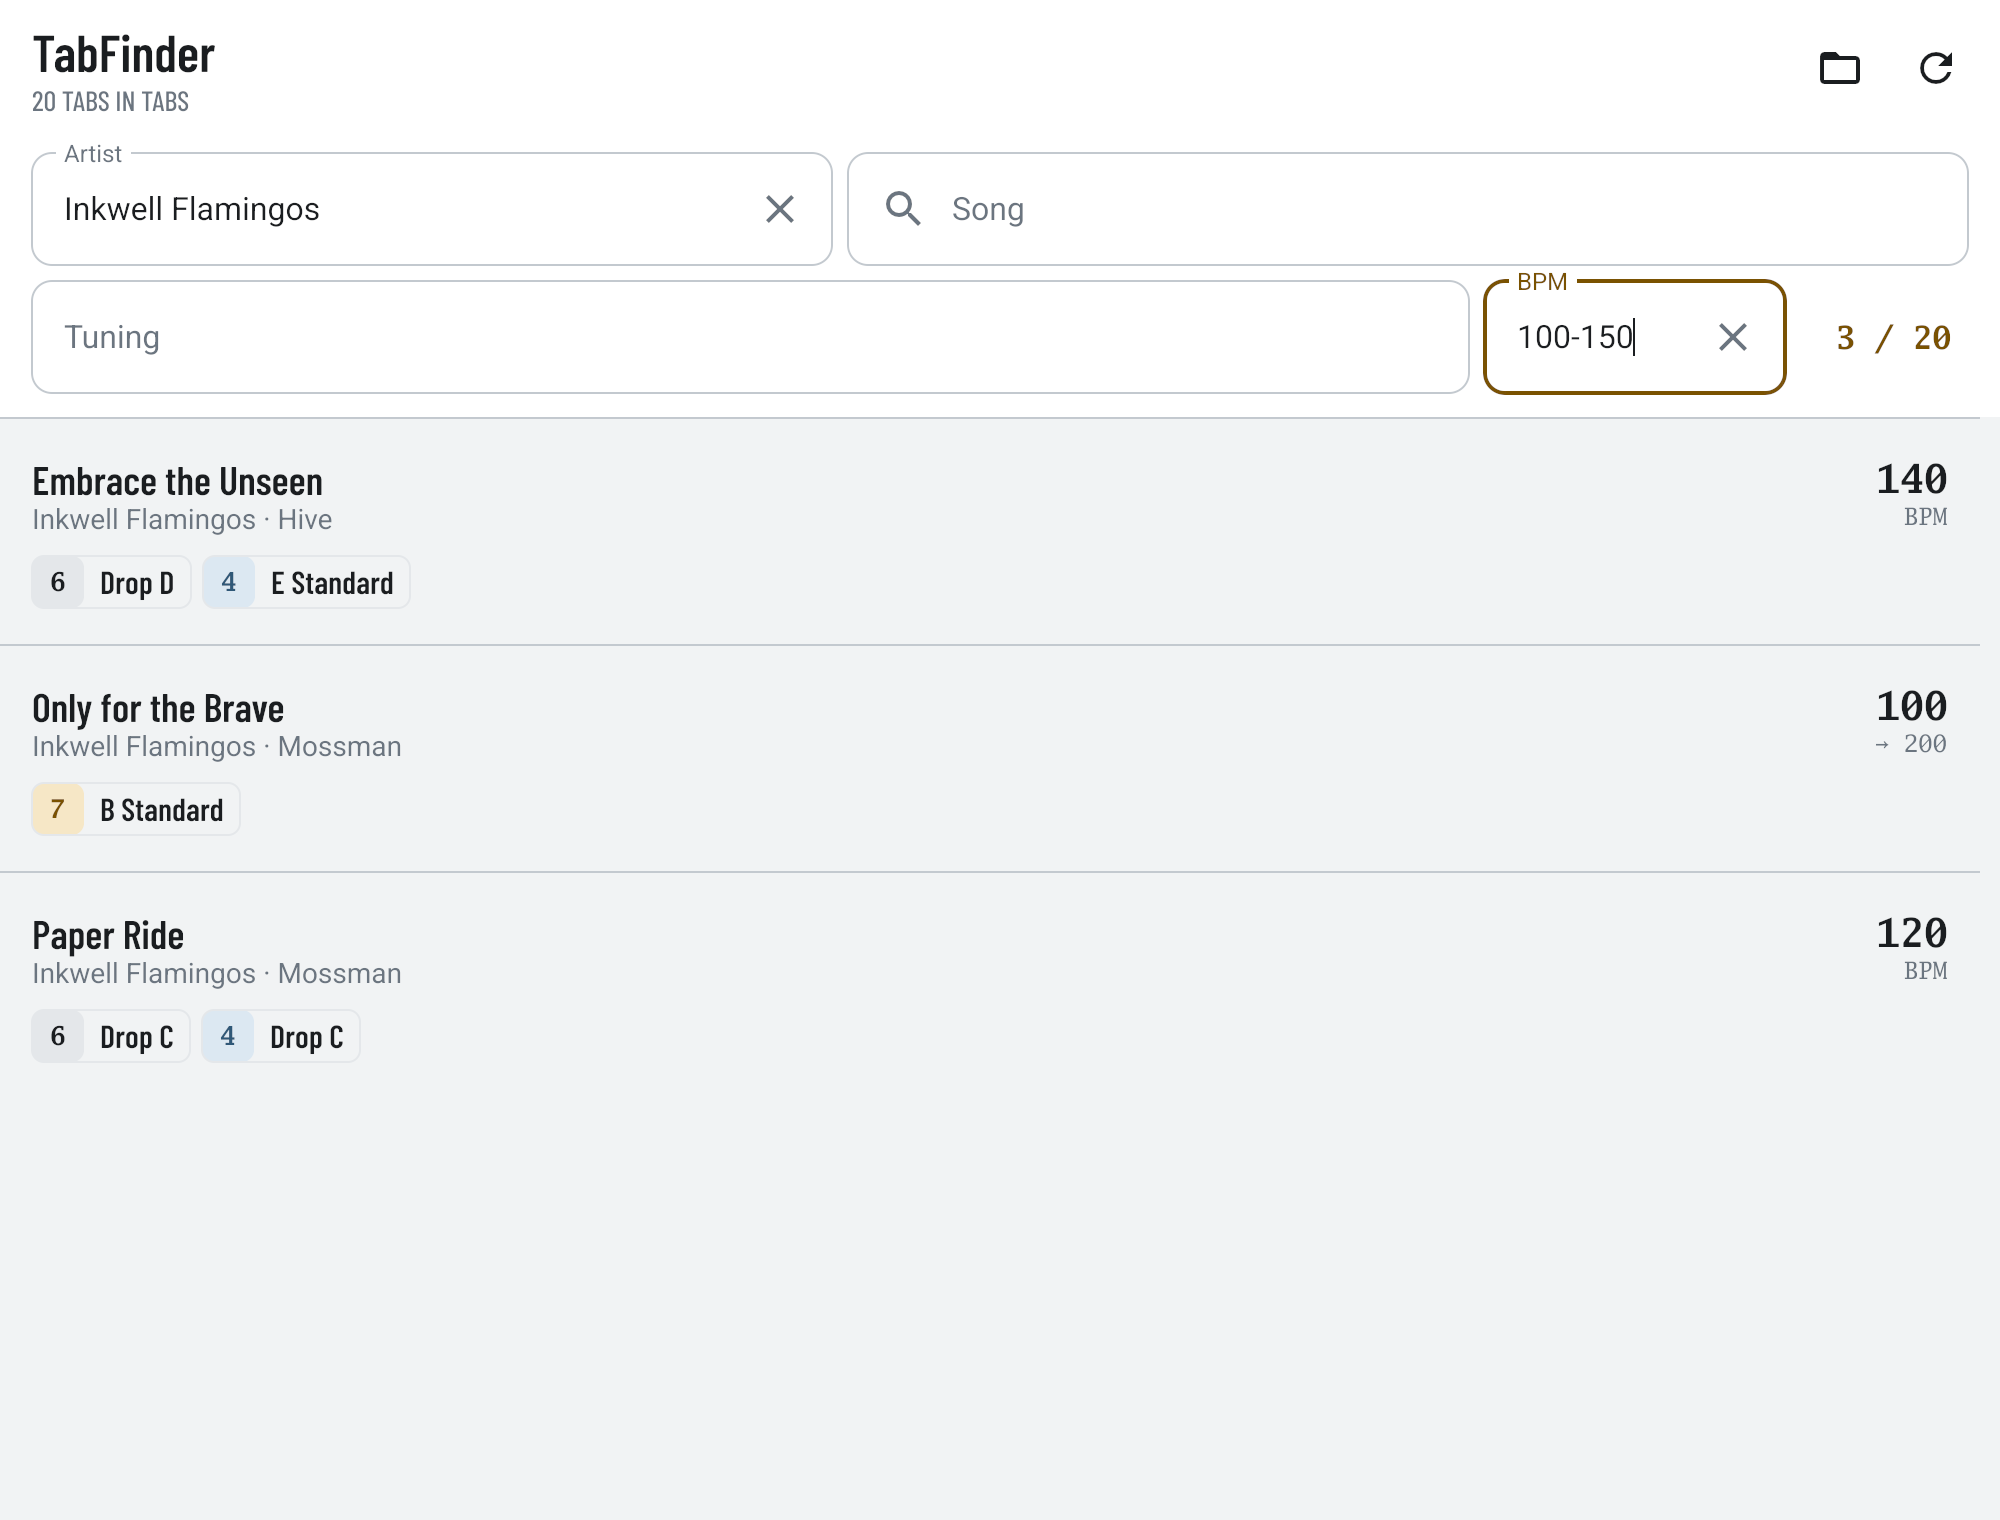
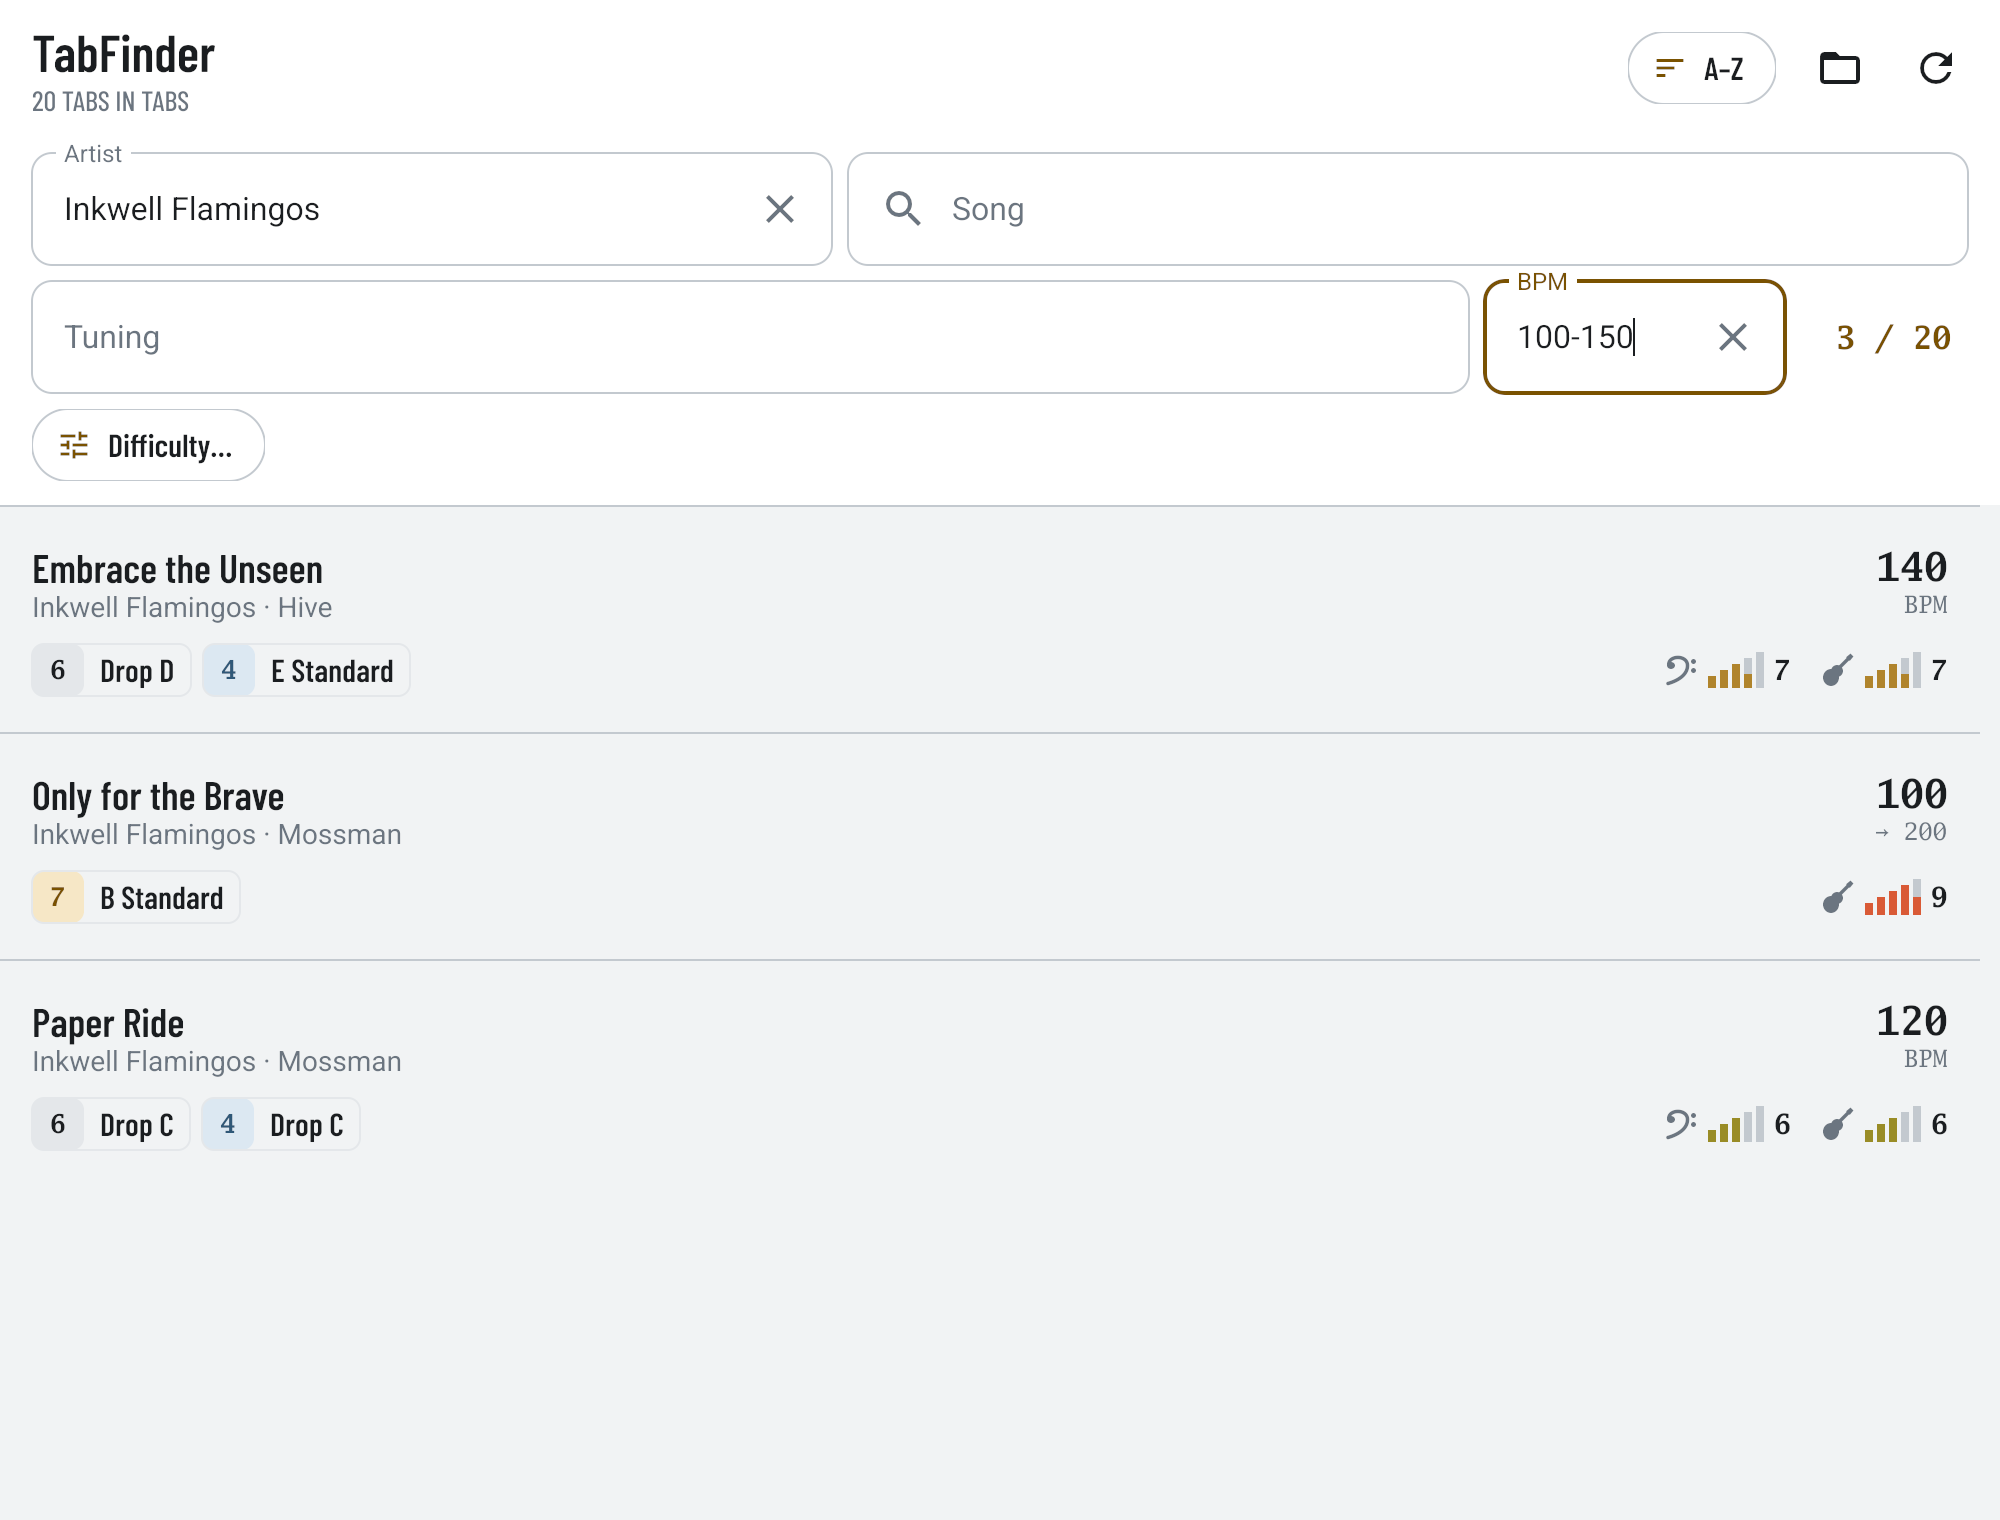
README, CHANGELOG: the desktop app's difficulty; showcase songs play riffs

diff --git a/cmd/tabfinder/readme_shots_test.go b/cmd/tabfinder/readme_shots_test.go
@@ -4,10 +4,13 @@ import (
 	"image"
 	"os"
 	"path/filepath"
+	"slices"
+	"strings"
 	"testing"
 
 	"gioui.org/io/key"
 
+	"tabfinder/internal/difficulty"
 	"tabfinder/internal/finder"
 	"tabfinder/internal/tabfiles"
 	"tabfinder/internal/testlib"
@@ -38,32 +41,41 @@ func showcaseLibrary() map[string][]byte {
 		tempo                int
 		changes              map[int]int // bar -> BPM
 		tracks               []tabfiles.GPTrack
+		pace, variety        int // notes per quarter and distinct bars of the riffs; 0: a few chords
 	}
 	songs := []song{
-		{"Amber Marsh", "Tide of Lanterns", "Where Rivers Seem to Rest", 120, nil, []tabfiles.GPTrack{gtr("Guitar", std), bass, drums}},
-		{"Amber Marsh", "Tide of Lanterns", "Copper Giant", 160, nil, []tabfiles.GPTrack{gtr("Rhythm", dropD), gtr("Lead", dropD)}},
-		{"Amber Marsh", "Tide of Lanterns", "Raise Your Lanterns", 110, nil, []tabfiles.GPTrack{gtr("Guitar", dStd)}},
-		{"Inkwell Flamingos", "Mossman", "Only for the Brave", 100, map[int]int{4: 200}, []tabfiles.GPTrack{gtr("Guitar 7", b7)}},
-		{"Inkwell Flamingos", "Mossman", "Paper Ride", 120, nil, []tabfiles.GPTrack{gtr("Guitar", dropC), bassC}},
-		{"Inkwell Flamingos", "Hive", "Embrace the Unseen", 140, nil, []tabfiles.GPTrack{gtr("Guitar", dropD), bass}},
-		{"Soilbed Quartet", "Glass Orchard", "Brass Kettle", 190, map[int]int{5: 145}, []tabfiles.GPTrack{gtr("Guitar", dropC), bassC, drums}},
-		{"Soilbed Quartet", "Glass Orchard", "Rust Parade", 190, nil, []tabfiles.GPTrack{gtr("Guitar", dropC)}},
-		{"Neon Harbor", "Glass Tides", "Salt Lamp", 132, map[int]int{3: 96, 6: 132}, []tabfiles.GPTrack{gtr("Lead Guitar", std)}},
-		{"Neon Harbor", "Glass Tides", "Harbor Lights at Noon", 98, nil, []tabfiles.GPTrack{gtr("Guitar", eb), bass}},
-		{"Quiet Engines", "Slow Orbit", "Tin Moon", 90, map[int]int{2: 100}, []tabfiles.GPTrack{gtr("Guitar", dropD), bass, drums}},
-		{"Quiet Engines", "Slow Orbit", "Ballast", 76, nil, []tabfiles.GPTrack{gtr("Acoustic", dadgad)}},
-		{"Paper Satellites", "Cold Start", "Cold Start", 150, nil, []tabfiles.GPTrack{gtr("Guitar", dStd), drums}},
-		{"Paper Satellites", "Cold Start", "Signal Fade", 170, nil, []tabfiles.GPTrack{gtr("Guitar", std)}},
-		{"Moss Cathedral", "Hollow Choir", "Lantern", 84, nil, []tabfiles.GPTrack{gtr("Slide", openG)}},
-		{"Moss Cathedral", "Hollow Choir", "Under Glass", 66, nil, []tabfiles.GPTrack{gtr("Guitar", dropB), bass}},
-		{"Seventh Floor", "Static Garden", "Paper Weather", 140, nil, []tabfiles.GPTrack{gtr("Rhythm 7", b7), gtr("Lead", std)}},
-		{"Seventh Floor", "Static Garden", "Cut Short", 125, nil, []tabfiles.GPTrack{gtr("Guitar 7", b7)}},
-		{"Die Äther", "Polka ist anders", "Ruf nach Sonne", 150, nil, []tabfiles.GPTrack{gtr("Gitarre", std), bass, drums}},
-		{"Orbit Club", "Night Shift", "Night Shift", 128, nil, []tabfiles.GPTrack{gtr("Guitar", std), bass}},
+		{"Amber Marsh", "Tide of Lanterns", "Where Rivers Seem to Rest", 120, nil, []tabfiles.GPTrack{gtr("Guitar", std), bass, drums}, 2, 4},
+		{"Amber Marsh", "Tide of Lanterns", "Copper Giant", 160, nil, []tabfiles.GPTrack{gtr("Rhythm", dropD), gtr("Lead", dropD)}, 4, 6},
+		{"Amber Marsh", "Tide of Lanterns", "Raise Your Lanterns", 110, nil, []tabfiles.GPTrack{gtr("Guitar", dStd)}, 1, 2},
+		{"Inkwell Flamingos", "Mossman", "Only for the Brave", 100, map[int]int{4: 200}, []tabfiles.GPTrack{gtr("Guitar 7", b7)}, 2, 6},
+		{"Inkwell Flamingos", "Mossman", "Paper Ride", 120, nil, []tabfiles.GPTrack{gtr("Guitar", dropC), bassC}, 2, 2},
+		{"Inkwell Flamingos", "Hive", "Embrace the Unseen", 140, nil, []tabfiles.GPTrack{gtr("Guitar", dropD), bass}, 2, 3},
+		{"Soilbed Quartet", "Glass Orchard", "Brass Kettle", 190, map[int]int{5: 145}, []tabfiles.GPTrack{gtr("Guitar", dropC), bassC, drums}, 4, 8},
+		{"Soilbed Quartet", "Glass Orchard", "Rust Parade", 190, nil, []tabfiles.GPTrack{gtr("Guitar", dropC)}, 4, 4},
+		{"Neon Harbor", "Glass Tides", "Salt Lamp", 132, map[int]int{3: 96, 6: 132}, []tabfiles.GPTrack{gtr("Lead Guitar", std)}, 4, 8},
+		{"Neon Harbor", "Glass Tides", "Harbor Lights at Noon", 98, nil, []tabfiles.GPTrack{gtr("Guitar", eb), bass}, 1, 3},
+		{"Quiet Engines", "Slow Orbit", "Tin Moon", 90, map[int]int{2: 100}, []tabfiles.GPTrack{gtr("Guitar", dropD), bass, drums}, 2, 2},
+		{"Quiet Engines", "Slow Orbit", "Ballast", 76, nil, []tabfiles.GPTrack{gtr("Acoustic", dadgad)}, 1, 1},
+		{"Paper Satellites", "Cold Start", "Cold Start", 150, nil, []tabfiles.GPTrack{gtr("Guitar", dStd), drums}, 2, 4},
+		{"Paper Satellites", "Cold Start", "Signal Fade", 170, nil, []tabfiles.GPTrack{gtr("Guitar", std)}, 4, 3},
+		{"Moss Cathedral", "Hollow Choir", "Lantern", 84, nil, []tabfiles.GPTrack{gtr("Slide", openG)}, 1, 2},
+		{"Moss Cathedral", "Hollow Choir", "Under Glass", 66, nil, []tabfiles.GPTrack{gtr("Guitar", dropB), bass}, 1, 2},
+		{"Seventh Floor", "Static Garden", "Paper Weather", 140, nil, []tabfiles.GPTrack{gtr("Rhythm 7", b7), gtr("Lead", std)}, 4, 6},
+		{"Seventh Floor", "Static Garden", "Cut Short", 125, nil, []tabfiles.GPTrack{gtr("Guitar 7", b7)}, 2, 5},
+		{"Die Äther", "Polka ist anders", "Ruf nach Sonne", 150, nil, []tabfiles.GPTrack{gtr("Gitarre", std), bass, drums}, 2, 3},
+		{"Orbit Club", "Night Shift", "Night Shift", 128, nil, []tabfiles.GPTrack{gtr("Guitar", std), bass}, 2, 2},
 	}
 	files := map[string][]byte{}
 	for _, s := range songs {
 		bars := make([]tabfiles.GPBar, 8)
+		if s.pace > 0 {
+			bars = make([]tabfiles.GPBar, 48)
+			for i := range bars {
+				for _, t := range s.tracks {
+					bars[i].Beats = append(bars[i].Beats, riff(t, s.pace, s.variety, i))
+				}
+			}
+		}
 		for bar, bpm := range s.changes {
 			bars[bar].Tempo = bpm
 		}
@@ -72,6 +84,33 @@ func showcaseLibrary() map[string][]byte {
 		})
 	}
 	return files
+}
+
+// riff is a bar of track t: pace notes per quarter, drums a beat, a lead high up, others on
+// their lowest strings; bars repeat after variety of them.
+func riff(t tabfiles.GPTrack, pace, variety, bar int) []tabfiles.GPBeat {
+	dur := map[int]int{1: 0, 2: 1, 4: 2}[pace]
+	v := bar % max(variety, 1)
+	low := len(t.Strings) // the lowest string
+	var out []tabfiles.GPBeat
+	for i := range 4 * pace {
+		var notes []tabfiles.GPNote
+		switch {
+		case t.Drums:
+			notes = []tabfiles.GPNote{{String: 1, Fret: 42}}
+			if i%(2*pace) == 0 {
+				notes = append(notes, tabfiles.GPNote{String: 2, Fret: 36})
+			} else if i%(2*pace) == pace {
+				notes = append(notes, tabfiles.GPNote{String: 2, Fret: 38})
+			}
+		case strings.Contains(t.Name, "Lead"):
+			notes = []tabfiles.GPNote{{String: 1 + (i+v)%2, Fret: 12 + (3*i+2*v)%7}}
+		default:
+			notes = []tabfiles.GPNote{{String: low - (i/2+v)%2, Fret: (i*(v+1) + v) % 6}}
+		}
+		out = append(out, tabfiles.GPBeat{Dur: dur, Notes: notes})
+	}
+	return out
 }
 
 // TestReadmeScreenshots renders the desktop screenshots of the README into $TABFINDER_README_SHOTS
@@ -107,6 +146,16 @@ func TestReadmeScreenshots(t *testing.T) {
 			h.shot("desktop-list")
 			h.click(tuningAt.X, tuningAt.Y)
 			h.shot("desktop-tuning")
+			h.press(key.NameEscape)
+			h.openLevels()
+			r := h.sliderRect(difficulty.Rhythm)
+			h.drag(thumbAt(r, 1), thumbAt(r, 5))
+			h.drag(thumbAt(r, 10), thumbAt(r, 7))
+			h.shot("desktop-difficulty")
+			h.clickRect(h.buttonRect(h.winArea(), &h.u.levelsDone))
+			h.clickRect(h.buttonRect(h.topBarArea(), &h.u.sortBtn))
+			h.clickRect(h.buttonRect(h.winArea(), &h.u.sortItems[slices.Index(sorts, finder.SortEasiest)]))
+			h.shot("desktop-easiest")
 			continue
 		}
 		h.click(artistAt.X, artistAt.Y)

diff --git a/README.md b/README.md
@@ -13,6 +13,10 @@ to the folder layout and the file name.
 |---|---|
 | <img src="docs/screenshots/desktop-tuning.png" alt="The tuning menu, grouped by string count"> | <img src="docs/screenshots/desktop-light.png" alt="Songs by one artist between 100 and 150 BPM, in the light theme"> |
 
+| A range of difficulty per part | Rhythm guitar 5–7, easiest first |
+|---|---|
+| <img src="docs/screenshots/desktop-difficulty.png" alt="The difficulty popup with a range slider for drums, bass, rhythm and lead guitar"> | <img src="docs/screenshots/desktop-easiest.png" alt="Songs whose rhythm guitar part is level 5 to 7, easiest first"> |
+
 | Android | Android, filtered to Drop D |
 |---|---|
 | <img src="docs/screenshots/android-list.png" width="360" alt="The Android app's song list on a tablet"> | <img src="docs/screenshots/android-tuning.png" width="360" alt="The Android app filtered to Drop D"> |
@@ -70,7 +74,10 @@ mise run desktop-install  # build into ~/.local/bin/tabfinder and add a menu ent
 
 On first start, choose your tab folder. The folder dialog needs `kdialog` or `zenity`.
 Type into the artist, song, tuning and BPM fields to filter the list; the artist and
-tuning fields suggest values from your library. Click a song to open it in `tuxguitar`,
+tuning fields suggest values from your library. Each song shows how hard its parts are
+(drums, bass, rhythm and lead guitar, level 1 to 10, see [Difficulty](#difficulty)).
+"Difficulty…" sets a range of levels per part, and the sort button in the top bar
+orders the list A–Z, easiest first or hardest first. Click a song to open it in `tuxguitar`,
 which must be on your `PATH`. Songs whose file name TuxGuitar can't open are copied into
 the cache under a name it can open.
 

diff --git a/CHANGELOG.md b/CHANGELOG.md
@@ -13,6 +13,9 @@ The format follows [Keep a Changelog](https://keepachangelog.com/en/1.1.0/).
 - `tabscan`: `-drums`, `-bass`, `-rhythm` and `-lead` filter by a range of levels, `-tag`
   by tags, `-sort easiest|hardest` orders by difficulty. TSV has two more columns,
   `difficulty` and `tags`; JSON has the parts.
+- Desktop app: each song shows its parts with a meter and the level; "Difficulty…" sets
+  a range of levels per part, shown as chips under the fields; a sort menu orders the
+  list A–Z, easiest first or hardest first.
 
 ### Changed
 
